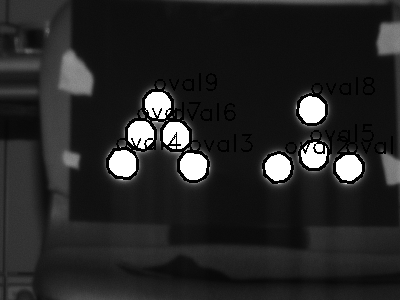
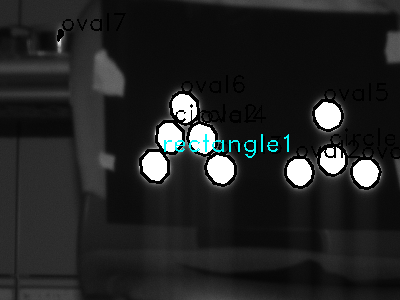
フラッシュをシンクロで光らせて、室内実験を実施。 初期解析開始

diff --git a/pattern_discern_library/pattern_discern_revmarker.py b/pattern_discern_library/pattern_discern_revmarker.py
@@ -3,9 +3,8 @@ import numpy as np
 import matplotlib.pyplot as plt
 
 # ファイルを読み込み グレースケール化
-# img = cv2.imread("shapes.png", cv2.IMREAD_GRAYSCALE)
-# img = cv2.imread("triangle_test3.png", cv2.IMREAD_GRAYSCALE)
-img = cv2.imread("flycapture_exper_room/210303/20305900-2021-03-03-205414.pgm", cv2.IMREAD_GRAYSCALE)
+# img = cv2.imread("flycapture_exper_room/210303/20305900-2021-03-03-205436.pgm", cv2.IMREAD_GRAYSCALE)
+img = cv2.imread("flycapture_exper_room/210303/20305900-2021-03-03-205631.pgm", cv2.IMREAD_GRAYSCALE)
 img = img[150:450, 500:900]
 # plt.figure(figsize=(10, 10))
 # img2 = img[:,:,::-1]
@@ -93,20 +92,32 @@ for i in range(9):
 print("Conbination", Conbination)
 Flist = []
 for i in range(len(Conbination)):
-    F = np.linalg.norm(centerlist[Conbination[i][0][0]] - centerlist[Conbination[i][0][1]]) ** 2 + np.linalg.norm(centerlist[Conbination[i][1][0]] - centerlist[Conbination[i][1][1]]) ** 2 + np.linalg.norm(centerlist[Conbination[i][1][0]] - centerlist[Conbination[i][1][2]]) ** 2 + np.linalg.norm(centerlist[Conbination[i][1][1]] - centerlist[Conbination[i][1][2]]) ** 2
+    # F = np.linalg.norm(centerlist[Conbination[i][0][0]] - centerlist[Conbination[i][0][1]]) ** 2 + np.linalg.norm(centerlist[Conbination[i][1][0]] - centerlist[Conbination[i][1][1]]) ** 2 + np.linalg.norm(centerlist[Conbination[i][1][0]] - centerlist[Conbination[i][1][2]]) ** 2 + np.linalg.norm(centerlist[Conbination[i][1][1]] - centerlist[Conbination[i][1][2]]) ** 2
+    F = 0
+    for j in range(4):
+        for k in range(j):
+            F += np.linalg.norm(centerlist[Conbination[i][0][j]] - centerlist[Conbination[i][0][k]]) ** 2
+    for j in range(5):
+        for k in range(j):
+            F += np.linalg.norm(centerlist[Conbination[i][1][j]] - centerlist[Conbination[i][1][k]]) ** 2
     Flist.append(F)
     print(F)
 
 minindex = np.argmin(Flist)
 minconb = Conbination[minindex]
-print(minconb)
+print("minconb", minconb)
 
 print(centerlist)
 cv2.circle(img, (centerlist[minconb[0][0]][0], centerlist[minconb[0][0]][1]), 10, (200, 0, 0), thickness=-1)
 cv2.circle(img, (centerlist[minconb[0][1]][0], centerlist[minconb[0][1]][1]), 10, (200, 0, 0), thickness=-1)
+cv2.circle(img, (centerlist[minconb[0][2]][0], centerlist[minconb[0][2]][1]), 10, (200, 0, 0), thickness=-1)
+cv2.circle(img, (centerlist[minconb[0][3]][0], centerlist[minconb[0][3]][1]), 10, (200, 0, 0), thickness=-1)
 cv2.circle(img, (centerlist[minconb[1][0]][0], centerlist[minconb[1][0]][1]), 10, (0, 0, 200), thickness=-1)
 cv2.circle(img, (centerlist[minconb[1][1]][0], centerlist[minconb[1][1]][1]), 10, (0, 0, 200), thickness=-1)
 cv2.circle(img, (centerlist[minconb[1][2]][0], centerlist[minconb[1][2]][1]), 10, (0, 0, 200), thickness=-1)
+cv2.circle(img, (centerlist[minconb[1][3]][0], centerlist[minconb[1][3]][1]), 10, (0, 0, 200), thickness=-1)
+cv2.circle(img, (centerlist[minconb[1][4]][0], centerlist[minconb[1][4]][1]), 10, (0, 0, 200), thickness=-1)
+
 
 # 図形の数の結果
 print('Number of triangle = ', triangle)
